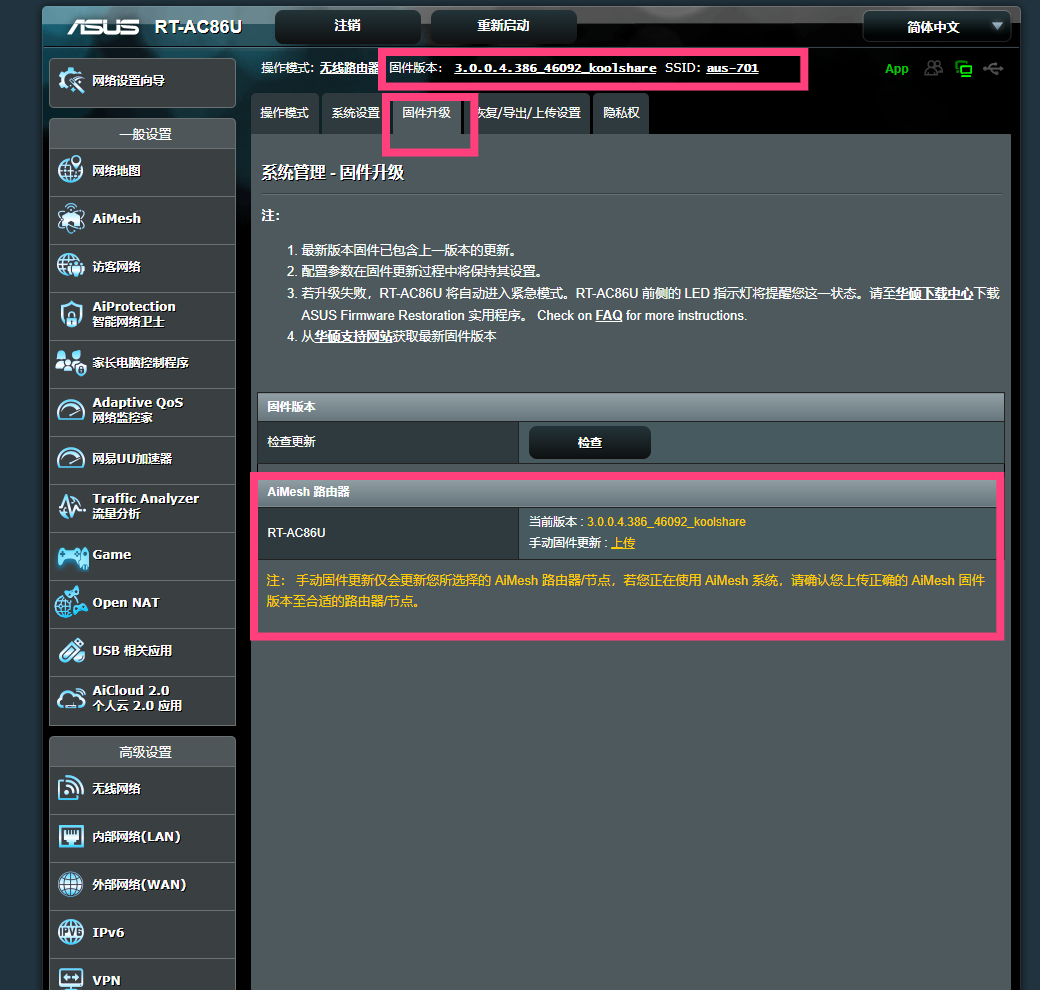
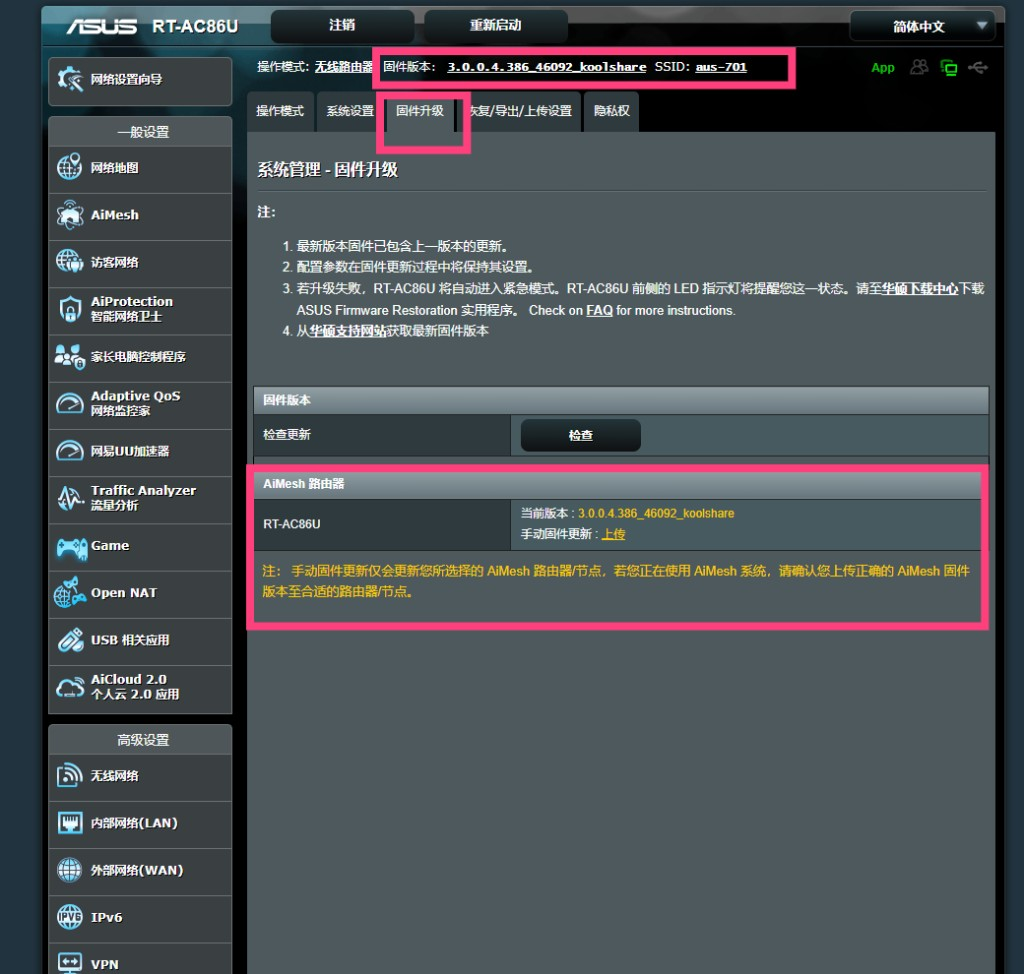
更新华硕路由器文档，删除不再使用的占位符图片，新增固件版本校验和软件中心已安装页面示意图，提升文档整洁性和用户体验。

diff --git a/docs/pages/asus-router-guide.html b/docs/pages/asus-router-guide.html
@@ -218,7 +218,6 @@
         <li>等待 3–5 分钟，期间请勿断电或重启</li>
         <li>路由器会自动重启完成升级</li>
       </ol>
-      <img src="../images/asus/asus-1.png" alt="华硕固件升级页面示意" style="width:100%;border-radius:12px;border:1px solid rgba(0,0,0,.08);margin-top:12px;" />
     </section>
 
     <section class="card">
@@ -237,6 +236,7 @@
       <h2>6. 验证版本</h2>
       <p>登录路由器管理界面，确认固件版本字符串显示为「Merlin」或「koolshare」字样，说明梅林固件已成功刷入。</p>
       <p>同时检查是否出现「软件中心」入口，这是安装 MerlinClash 的前提。</p>
+      <img src="../images/asus/asus-1.png" alt="固件版本校验页面示意" style="width:100%;border-radius:12px;border:1px solid rgba(0,0,0,.08);margin-top:12px;" />
     </section>
 
     <!-- PART 2: MerlinClash 安装配置 -->

diff --git a/asus-router/asus-merlin-flash.md b/asus-router/asus-merlin-flash.md
@@ -203,8 +203,6 @@ KoolCenter 提供官改与梅林改版固件，适配机型全、更新及时：
 2. 点击 **选择文件**，选择已下载的梅林固件（.trx 或 .w 等格式）
 3. 点击 **上传** 开始刷机
 
-![固件升级界面](../docs/images/asus/asus-1.png)
-
 ### 4.5 第四步：等待刷机完成
 
 - 刷机过程约 3–5 分钟
@@ -233,6 +231,7 @@ KoolCenter 提供官改与梅林改版固件，适配机型全、更新及时：
 1. 重新登录路由器管理界面
 2. 进入 **系统信息** → **固件版本**
 3. 确认显示为梅林固件版本（如 `388.8_4`、`102.4_0` 等）
+![固件版本界面](../docs/images/asus/asus-1.png)
 
 ### 6.2 检查软件中心
 
@@ -242,8 +241,6 @@ KoolCenter 提供官改与梅林改版固件，适配机型全、更新及时：
 - 更多网络工具
 - 高级网络设置
 - 自定义脚本支持
-
-![软件中心界面（已安装）](../docs/images/asus/asus-2.png)
 
 ![软件中心界面（全部软件）](../docs/images/asus/asus-3.png)
 

diff --git a/docs/images/README.md b/docs/images/README.md
@@ -13,7 +13,7 @@
 
 **新增后台截图（教程中引用）：**
 
-- `asus-1.png` — 固件升级页面示意（系统管理 → 固件升级）
+- `asus-1.png` — 固件版本校验页面示意（验证版本）
 - `asus-2.png` — 软件中心已安装页面示意
 - `asus-3.png` — 软件中心全部软件页面示意
 
@@ -111,7 +111,7 @@
 - 2024-01-01: 初始版本，包含华硕路由器基础图片
 - 2024-01-02: 添加梅林固件刷机相关图片
 - 2024-01-03: 添加 Clash 配置和网络设置图片
-- 2026-03: 新增 **asus/** 子目录；新增 `asus-1.png`、`asus-2.png`、`asus-3.png` 机型示意图；部分华硕/Fancyss 图片移入 `asus/`，文档与网页引用已同步更新
+- 2026-03: 新增 **asus/** 子目录；新增 `asus-1.png`、`asus-2.png`、`asus-3.png` 后台步骤截图；部分华硕/Fancyss 图片移入 `asus/`，文档与网页引用已同步更新
 - 后续会根据教程内容持续更新
 
 ## 参考来源

diff --git a/asus-router/asus-merlinclash-setup.md b/asus-router/asus-merlinclash-setup.md
@@ -43,6 +43,8 @@
 2. 进入 **软件中心**
 3. 点击 **更新** 按钮，将软件中心升级到最新版本
 
+![软件中心界面（已安装）](../docs/images/asus/asus-2.png)
+
 ### 2.2 确认存储空间
 
 确保路由器有足够存储空间安装插件，可在系统信息中查看可用空间。